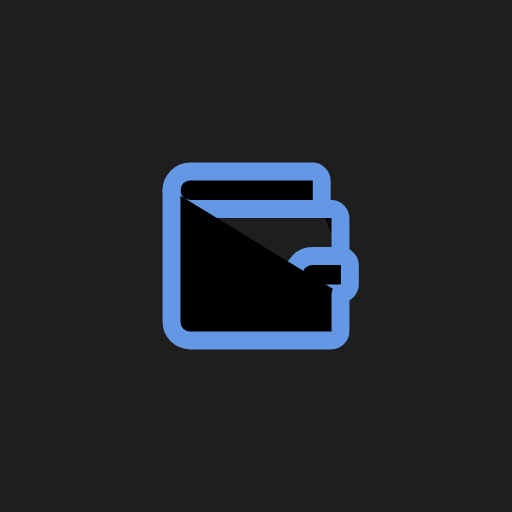
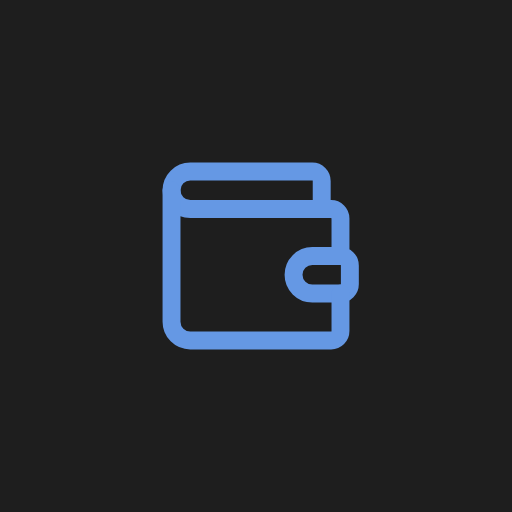
Wie eine native App: kein Zoom, kein Markieren, Startbilder
Pinch-Zoom ueber Viewport plus abgebrochene Safari-Gesten, Doppeltipp-Zoom
per touch-action. Kein Markieren, keine Lupe und kein Kontextmenue ausser
in Eingabefeldern, kein Tipp-Blitz, kein Gummiband, :active auf iOS.
Startbilder fuer 12 iPhone-Groessen (nicht im Offline-Cache).
App-Icon: fehlendes fill=none liess das Wallet schwarz gefuellt erscheinen.

Claude-Session: https://claude.ai/code/session_0195avdzD1XMUWkqXPr7y23q

Changed region(s): [[0.3438, 0.3438, 0.6875, 0.6562]]

diff --git a/index.html b/index.html
@@ -2,7 +2,7 @@
 <html lang="de">
   <head>
     <meta charset="UTF-8" />
-    <meta name="viewport" content="width=device-width, initial-scale=1, viewport-fit=cover" />
+    <meta name="viewport" content="width=device-width, initial-scale=1, maximum-scale=1, user-scalable=no, viewport-fit=cover" />
     <meta name="theme-color" content="#1E1E1E" />
     <meta name="apple-mobile-web-app-capable" content="yes" />
     <meta name="mobile-web-app-capable" content="yes" />
@@ -11,6 +11,33 @@
     <meta name="format-detection" content="telephone=no" />
     <link rel="icon" href="favicon.svg" type="image/svg+xml" />
     <link rel="apple-touch-icon" href="apple-touch-icon.png" />
+    <!-- Startbilder: erzeugt von scripts/startbilder.mjs (npm run startbilder) -->
+    <!-- startbilder -->
+    <!-- iPhone 16 Pro Max, 17 Pro Max -->
+    <link rel="apple-touch-startup-image" href="splash/1320x2868.png" media="(device-width: 440px) and (device-height: 956px) and (-webkit-device-pixel-ratio: 3) and (orientation: portrait)" />
+    <!-- iPhone 14 Pro Max, 15 Plus, 15 Pro Max, 16 Plus -->
+    <link rel="apple-touch-startup-image" href="splash/1290x2796.png" media="(device-width: 430px) and (device-height: 932px) and (-webkit-device-pixel-ratio: 3) and (orientation: portrait)" />
+    <!-- iPhone 12/13 Pro Max, 14 Plus -->
+    <link rel="apple-touch-startup-image" href="splash/1284x2778.png" media="(device-width: 428px) and (device-height: 926px) and (-webkit-device-pixel-ratio: 3) and (orientation: portrait)" />
+    <!-- iPhone Air -->
+    <link rel="apple-touch-startup-image" href="splash/1260x2736.png" media="(device-width: 420px) and (device-height: 912px) and (-webkit-device-pixel-ratio: 3) and (orientation: portrait)" />
+    <!-- iPhone XS Max, 11 Pro Max -->
+    <link rel="apple-touch-startup-image" href="splash/1242x2688.png" media="(device-width: 414px) and (device-height: 896px) and (-webkit-device-pixel-ratio: 3) and (orientation: portrait)" />
+    <!-- iPhone XR, 11 -->
+    <link rel="apple-touch-startup-image" href="splash/828x1792.png" media="(device-width: 414px) and (device-height: 896px) and (-webkit-device-pixel-ratio: 2) and (orientation: portrait)" />
+    <!-- iPhone 8 Plus -->
+    <link rel="apple-touch-startup-image" href="splash/1242x2208.png" media="(device-width: 414px) and (device-height: 736px) and (-webkit-device-pixel-ratio: 3) and (orientation: portrait)" />
+    <!-- iPhone 16 Pro, 17, 17 Pro -->
+    <link rel="apple-touch-startup-image" href="splash/1206x2622.png" media="(device-width: 402px) and (device-height: 874px) and (-webkit-device-pixel-ratio: 3) and (orientation: portrait)" />
+    <!-- iPhone 14 Pro, 15, 15 Pro, 16 -->
+    <link rel="apple-touch-startup-image" href="splash/1179x2556.png" media="(device-width: 393px) and (device-height: 852px) and (-webkit-device-pixel-ratio: 3) and (orientation: portrait)" />
+    <!-- iPhone 12, 13, 14, 16e -->
+    <link rel="apple-touch-startup-image" href="splash/1170x2532.png" media="(device-width: 390px) and (device-height: 844px) and (-webkit-device-pixel-ratio: 3) and (orientation: portrait)" />
+    <!-- iPhone X, XS, 11 Pro, 12/13 mini -->
+    <link rel="apple-touch-startup-image" href="splash/1125x2436.png" media="(device-width: 375px) and (device-height: 812px) and (-webkit-device-pixel-ratio: 3) and (orientation: portrait)" />
+    <!-- iPhone SE (2./3.), 8 -->
+    <link rel="apple-touch-startup-image" href="splash/750x1334.png" media="(device-width: 375px) and (device-height: 667px) and (-webkit-device-pixel-ratio: 2) and (orientation: portrait)" />
+    <!-- /startbilder -->
     <title>AusgabenBro</title>
   </head>
   <body>

diff --git a/e2e/nativ.spec.ts b/e2e/nativ.spec.ts
@@ -1,0 +1,77 @@
+import { expect, test } from '@playwright/test';
+import { vorbereiten } from './hilfen';
+
+/** Massnahmen, damit sich die Home-Bildschirm-App wie eine native App anfuehlt. */
+
+test('kein Zoom: Viewport, Safari-Gesten und Doppeltipp', async ({ page }) => {
+  await vorbereiten(page);
+  await page.goto('./#/budget');
+  const viewport = await page.locator('meta[name="viewport"]').getAttribute('content');
+  expect(viewport).toContain('maximum-scale=1');
+  expect(viewport).toContain('user-scalable=no');
+  expect(viewport).toContain('viewport-fit=cover');
+
+  const abgebrochen = await page.evaluate(() =>
+    ['gesturestart', 'gesturechange', 'gestureend'].map((typ) => {
+      const e = new Event(typ, { cancelable: true, bubbles: true });
+      document.body.dispatchEvent(e);
+      return e.defaultPrevented;
+    })
+  );
+  expect(abgebrochen).toEqual([true, true, true]);
+
+  const touchAction = await page.evaluate(() => getComputedStyle(document.documentElement).touchAction);
+  expect(touchAction).toBe('manipulation');
+});
+
+test('kein Markieren ausser in Eingabefeldern, Tippen geht weiter', async ({ page }) => {
+  await vorbereiten(page);
+  await page.goto('./#/einstellungen');
+  const auswahl = (sel: string) =>
+    page.locator(sel).first().evaluate((el) => {
+      const s = getComputedStyle(el) as CSSStyleDeclaration & { webkitUserSelect?: string };
+      return s.userSelect || s.webkitUserSelect;
+    });
+  expect(await auswahl('main h1')).toBe('none');
+  expect(await auswahl('main [class*="_posten_"]')).toBe('none');
+  expect(await auswahl('input[type="text"]')).toBe('text');
+
+  await page.getByLabel('dein Name').fill('Kim');
+  await expect(page.getByLabel('dein Name')).toHaveValue('Kim');
+});
+
+test('Startbilder für alle iPhone-Größen, in passender Auflösung', async ({ page, request }) => {
+  await page.goto('./');
+  const bilder = await page.locator('link[rel="apple-touch-startup-image"]').evaluateAll((links) =>
+    links.map((l) => ({ href: l.getAttribute('href') ?? '', media: l.getAttribute('media') ?? '' }))
+  );
+  expect(bilder.length).toBeGreaterThanOrEqual(12);
+  // Dein iPhone (393 × 852 @3) ist dabei
+  expect(bilder.some((b) => b.media.includes('device-width: 393px') && b.media.includes('device-height: 852px'))).toBe(true);
+
+  for (const b of bilder) {
+    const m = /device-width: (\d+)px\) and \(device-height: (\d+)px\) and \(-webkit-device-pixel-ratio: (\d)\)/.exec(b.media);
+    expect(m, b.media).not.toBeNull();
+    const [, breite, hoehe, dpr] = (m as RegExpExecArray).map(Number);
+    const antwort = await request.get(b.href);
+    expect(antwort.ok(), b.href).toBe(true);
+    const png = await antwort.body();
+    // PNG-Kopf: Breite und Hoehe ab Byte 16 bzw. 20
+    expect([png.readUInt32BE(16), png.readUInt32BE(20)], b.href).toEqual([breite! * dpr!, hoehe! * dpr!]);
+  }
+});
+
+test('Startbilder landen nicht im Offline-Cache', async ({ page }) => {
+  await vorbereiten(page);
+  await page.goto('./#/budget');
+  await page.waitForFunction(() => !!navigator.serviceWorker?.controller, null, { timeout: 15_000 });
+  const imCache = await page.evaluate(async () => {
+    const namen = await caches.keys();
+    for (const n of namen) {
+      const c = await caches.open(n);
+      if ((await c.keys()).some((r) => r.url.includes('/splash/'))) return true;
+    }
+    return false;
+  });
+  expect(imCache).toBe(false);
+});

diff --git a/src/nativ.ts b/src/nativ.ts
@@ -1,0 +1,29 @@
+/**
+ * Damit sich die Home-Bildschirm-App wie eine native App anfuehlt.
+ *
+ * Zoom: Safari ignoriert `user-scalable=no` seit iOS 10. Die eigenen
+ * Gesten-Ereignisse von Safari (gesturestart/-change/-end) lassen sich aber
+ * abbrechen, ebenso Zwei-Finger-Bewegungen. Doppeltipp-Zoom verhindert
+ * `touch-action: manipulation` in base.css.
+ *
+ * Gedrueckt-Zustaende: iOS wendet `:active` nur an, wenn auf der Seite ein
+ * touchstart-Listener haengt. Ein leerer, passiver Listener genuegt.
+ */
+export function wieNativ(doc: Document = document): () => void {
+  const abbrechen = (e: Event) => e.preventDefault();
+  const zweiFinger = (e: TouchEvent) => {
+    if (e.touches.length > 1) e.preventDefault();
+  };
+  const nichts = () => {};
+
+  const gesten = ['gesturestart', 'gesturechange', 'gestureend'] as const;
+  for (const g of gesten) doc.addEventListener(g, abbrechen, { passive: false });
+  doc.addEventListener('touchmove', zweiFinger, { passive: false });
+  doc.addEventListener('touchstart', nichts, { passive: true });
+
+  return () => {
+    for (const g of gesten) doc.removeEventListener(g, abbrechen);
+    doc.removeEventListener('touchmove', zweiFinger);
+    doc.removeEventListener('touchstart', nichts);
+  };
+}

diff --git a/src/nativ.test.ts b/src/nativ.test.ts
@@ -1,0 +1,33 @@
+import { describe, expect, it } from 'vitest';
+import { wieNativ } from './nativ';
+
+function ereignis(typ: string, finger?: number): Event {
+  const e = new Event(typ, { cancelable: true });
+  if (finger !== undefined) Object.defineProperty(e, 'touches', { value: { length: finger } });
+  return e;
+}
+
+describe('Wie nativ', () => {
+  it('bricht Safaris Zoom-Gesten und Zwei-Finger-Bewegungen ab, ein Finger scrollt weiter', () => {
+    const ziel = new EventTarget() as unknown as Document;
+    const aufraeumen = wieNativ(ziel);
+
+    for (const typ of ['gesturestart', 'gesturechange', 'gestureend']) {
+      const e = ereignis(typ);
+      ziel.dispatchEvent(e);
+      expect(e.defaultPrevented, typ).toBe(true);
+    }
+    const zwei = ereignis('touchmove', 2);
+    ziel.dispatchEvent(zwei);
+    expect(zwei.defaultPrevented).toBe(true);
+
+    const einer = ereignis('touchmove', 1);
+    ziel.dispatchEvent(einer);
+    expect(einer.defaultPrevented).toBe(false);
+
+    aufraeumen();
+    const danach = ereignis('gesturestart');
+    ziel.dispatchEvent(danach);
+    expect(danach.defaultPrevented).toBe(false);
+  });
+});

diff --git a/src/styles/base.css b/src/styles/base.css
@@ -26,7 +26,39 @@ body {
 
 body {
   min-height: 100dvh;
-  overscroll-behavior-y: none;
+}
+
+/* Wie eine native App:
+   - kein Doppeltipp-Zoom (touch-action; Pinch-Zoom faengt src/nativ.ts ab)
+   - kein Gummiband-Effekt am Seitenrand
+   - kein Markieren von Text und kein Kontextmenue/Link-Vorschau beim langen
+     Druecken, ausser in Eingabefeldern
+   - kein grauer Tipp-Blitz */
+html {
+  touch-action: manipulation;
+  overscroll-behavior: none;
+  -webkit-touch-callout: none;
+}
+
+body {
+  overscroll-behavior: none;
+  -webkit-user-select: none;
+  user-select: none;
+}
+
+:where(*) {
+  -webkit-tap-highlight-color: transparent;
+}
+
+:where(input, textarea, select, [contenteditable='true']) {
+  -webkit-user-select: text;
+  user-select: text;
+  -webkit-touch-callout: default;
+}
+
+img,
+svg {
+  -webkit-user-drag: none;
 }
 
 /* Keine Scrollbalken, weder auf der Seite noch im Sheet. Scrollen geht

diff --git a/src/main.tsx b/src/main.tsx
@@ -8,9 +8,12 @@ import '@fontsource/momo-trust-display/latin-400.css';
 import './styles/tokens.css';
 import './styles/base.css';
 import { App } from './App';
+import { wieNativ } from './nativ';
 
 const wurzel = document.getElementById('root');
 if (!wurzel) throw new Error('#root fehlt in index.html');
+
+wieNativ();
 
 createRoot(wurzel).render(
   <StrictMode>

diff --git a/vite.config.ts b/vite.config.ts
@@ -31,6 +31,8 @@ export default defineConfig({
       },
       workbox: {
         globPatterns: ['**/*.{js,css,html,woff2,svg,png}'],
+        // Startbilder holt iOS beim Installieren selbst; nicht offline cachen.
+        globIgnores: ['**/splash/**'],
         navigateFallback: BASE + 'index.html'
       }
     })

diff --git a/DECISIONS.md b/DECISIONS.md
@@ -342,6 +342,28 @@ Ziffer löschen", damit sie nicht mit „Löschen" (Ausgabe löschen) verwechsel
 wird. Nach jedem Onboarding-Schritt springt der Fokus auf die neue
 Überschrift.
 
+## Wie eine native App
+
+Nachträglicher Wunsch: kein Zoomen, möglichst natives Gefühl.
+
+| Maßnahme | Wo |
+| --- | --- |
+| Pinch-Zoom aus: `maximum-scale=1, user-scalable=no` im Viewport. Safari ignoriert das seit iOS 10, deshalb zusätzlich die Safari-Gesten (`gesturestart/-change/-end`) und Zwei-Finger-Bewegungen abbrechen | `index.html`, `src/nativ.ts` |
+| Doppeltipp-Zoom aus: `touch-action: manipulation` auf `html` | `base.css` |
+| Kein Markieren, keine Lupe, kein Kontextmenü/Link-Vorschau beim langen Drücken; in Eingabefeldern weiter erlaubt | `base.css` |
+| Kein grauer Tipp-Blitz, kein Gummiband-Effekt (`overscroll-behavior: none`), Bilder/Icons nicht ziehbar | `base.css` |
+| Gedrückt-Zustände (`:active`) erscheinen auf iOS: leerer passiver `touchstart`-Listener | `src/nativ.ts` |
+| Startbilder für 12 iPhone-Größen statt weißem Aufblitzen beim Start; nicht im Offline-Cache | `scripts/startbilder.mjs`, `public/splash/` |
+| Hochformat im Manifest (Android; iOS ignoriert das) | `vite.config.ts` |
+
+**Zielkonflikt Barrierefreiheit:** Ohne Zoom gibt es in der App selbst keine
+Möglichkeit mehr, Inhalte zu vergrößern (WCAG 1.4.4). Die Systemfunktion
+Einstellungen → Bedienungshilfen → Zoom wirkt weiterhin. Für eine persönliche
+App so gewünscht; für eine App für Dritte würde ich das nicht abschalten.
+
+**App-Icon korrigiert:** Beim Erzeugen fehlte `fill="none"`, das Wallet hatte
+deshalb einen schwarzen Keil. Behoben in `scripts/app-icons.mjs`.
+
 ## Große Schrift
 
 Die App nutzt feste Pixelgrößen wie Figma. iOS-Dynamic-Type wirkt in Safari
